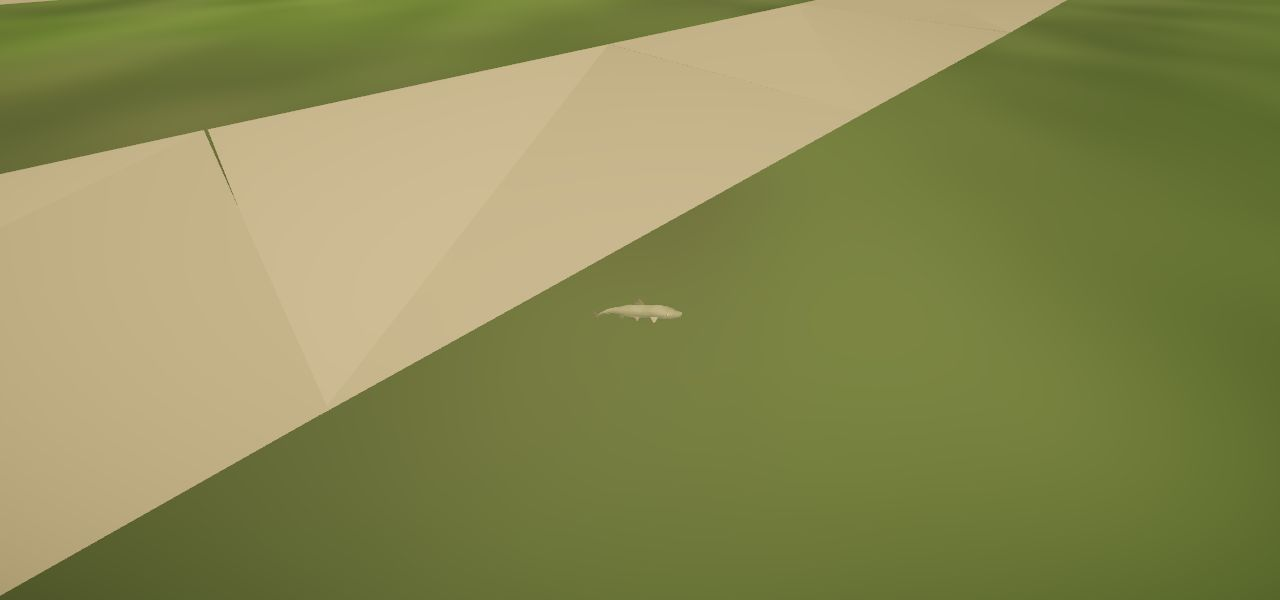
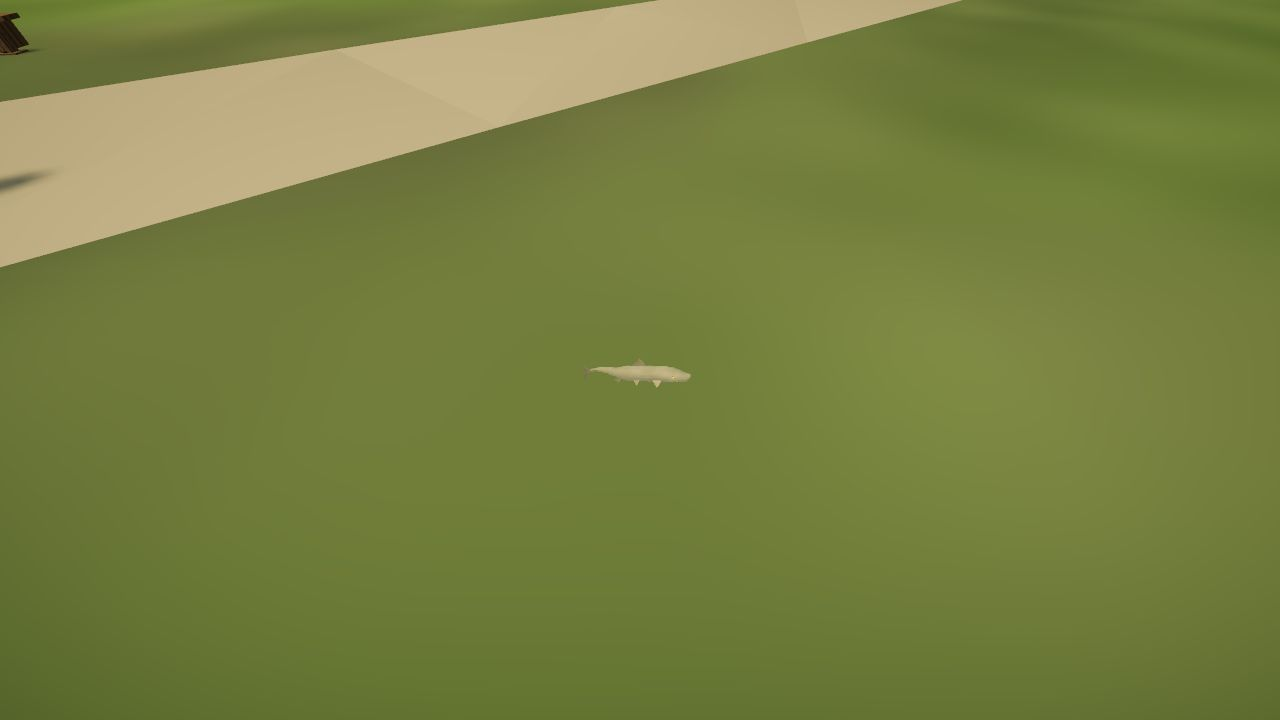
Bodies: Session 2626 — the gate eel and the sea serpent (#1925 B) as bodies in the game; f4animals +2; devlog
Claude-Session: https://claude.ai/code/session_019eFMMp35E2kWiX17Pguerk

diff --git a/js/34-creatures.js b/js/34-creatures.js
@@ -520,6 +520,12 @@ SWIMMER['Abyssal Angler']={len:1,col:0x1f1a1a,belly:0x332b29};
 SWIMMER.Stonefish={len:.38,col:0x6b5c4d,belly:0x8f7566};
 SWIMMER['Reef Moray']={len:1.4,col:0x666b29,belly:0x9e994d,gait:'slither',thin:.45};
 SWIMMER['Blackcurrent Eel']={len:2,col:0x14171f,belly:0x292e3d,gait:'slither',thin:.4};
+// Session 2626 (#1925 B, the sea that pushes back; L3, OG-016): the Uisce gates' two antibodies of the eel's line, bodies only (where they
+// rise and what they do are the systems builder's). The Gate Eel (the kit's gateeel, drawn to the sea gates, its bands lit amber as a gate's
+// light) is 3.8 m, the kit's scale; the serpent of the open water is the gate eel grown, as the designer's page has it, to a galleon's length
+// (22 m, the yard's galleon), on the same plan, its levels by its size (reach 5, the whale's). Both go by the kit's slither
+SWIMMER['Gate Eel']={len:3.8,col:0x292e33,belly:0x4d4d4d,gait:'slither',thin:.4,reach:2};
+SWIMMER['Sea Serpent']={len:22,col:0x292e33,belly:0x4d4d4d,gait:'slither',thin:.4,reach:5};
 // Session 2576: the two rays (L3, OG-016; the kit's starweedray and sailfinray) on the same path. The kit waves a ray's body about its x axis
 // (swimAxis), up and down as the whale's fluke, so the trout's fit along z holds; its stand-in is a flat disc (`wide`, of the trout's breadth;
 // `thin`, its depth). The Starweed Ray of the shallows is 1.0 m nose to tail-tip; the Sailfin Ray, the great ray of the deep channels, 3.4 m,
@@ -1115,7 +1121,7 @@ const HC_KINDS={'Wolf':{plan:'wolf'},'Snow Wolf':{plan:'wolf',own:true},'Dire Wo
   'Wraith':{plan:'wraith',own:true,person:true,legless:true,rest:HC_WRAITH_REST},'Phantom':{plan:'phantom',own:true,person:true,legless:true,rest:HC_WRAITH_REST},
   'Wraith (failing)':{plan:'failingwraith',own:true,person:true,legless:true,rest:HC_WRAITH_REST,arms:true,float:.05}, /* S1866 — its hem is 15% longer, so it rides 5 cm higher, clear of the floor */
   'Deer':{plan:'deer',ik:true},'Hind':{plan:'deer',own:true,ik:true,bare:true},'Red Fox':{plan:'redfox'},'Brown Hare':{plan:'brownhare'},'Badger':{plan:'badger'},'Otter':{plan:'otter'},'Cow':{plan:'cow',ik:true},'Sheep':{plan:'sheep',ik:true},'Goat':{plan:'goat',ik:true},'Ox':{plan:'ox',ik:true},'Yoked Ox':{plan:'yokedox',ik:true},'Donkey':{plan:'donkey',ik:true},'Pack Mule':{plan:'packmule',ik:true},'Camel':{plan:'camel',ik:true},'Reindeer':{plan:'reindeer',ik:true},'Highland Yak':{plan:'yak',ik:true},'Giant Goat':{plan:'giantgoat',ik:true},'Elderstag':{plan:'stag',ik:true},'Gatefen Boar':{plan:'gatefenboar'},'Redspine Fox':{plan:'redspinefox'},'Hollowcat':{plan:'hollowcat'},'Greenward Stoat':{plan:'stoat'},'Icehorn':{plan:'icehorn',ik:true},'Ironpine Elk':{plan:'ironpineelk',ik:true},'Craghorn Ram':{plan:'craghornram',ik:true},'Stormlynx':{plan:'stormlynx'},'Glacial Marmot':{plan:'glacialmarmot'},'Snowleap Hare':{plan:'snowhare'},'Duneskimmer':{plan:'duneskimmer',ik:true},'Terrace Ram':{plan:'terraceram',ik:true},'Sunspire Lynx':{plan:'sunspirelynx'},'Oasis Hare':{plan:'oasishare'},'Mirage Fox':{plan:'miragefox'},'Crownstag':{plan:'crownstag',ik:true},'Frostmane':{plan:'frostmane',ik:true},'Lanternfox':{plan:'lanternfox',night:true},'Thornrunner':{plan:'thornrunner'},'Stonejaw':{plan:'stonejaw'},
-  'Shark':{plan:'reefshark',fish:true},'Whale':{plan:'stormwhale',fish:true},'Dolphin':{plan:'stormswift',fish:true},'Gull':{plan:'gull',fish:true,own:true,cell:.014},'Raven':{plan:'raven',fish:true,own:true,cell:.014},'Crow':{plan:'crow',fish:true,own:true,cell:.012},'Trout':{plan:'trout',fish:true,own:true,cell:.014},'River Pike':{plan:'riverpike',fish:true,own:true,cell:.02},'Riverjaw Salmon':{plan:'riverjaw',fish:true,own:true,cell:.02},'Coastal Tuna':{plan:'coastaltuna',fish:true,own:true,cell:.02},'Skyskimmer':{plan:'skyskimmer',fish:true,own:true,cell:.016},'Abyssal Angler':{plan:'abyssalangler',fish:true,own:true,cell:.026},'Stonefish':{plan:'stonefish',fish:true,own:true,cell:.016},'Reef Moray':{plan:'reefmoray',fish:true,own:true,cell:.018},'Blackcurrent Eel':{plan:'blackcurrenteel',fish:true,own:true,cell:.024},'Starweed Ray':{plan:'starweedray',fish:true,own:true,cell:.016},'Sailfin Ray':{plan:'sailfinray',fish:true,own:true,cell:.02},'Lantern Jelly':{plan:'lanternjelly',fish:true,own:true,cell:.04},'Drifter Squid':{plan:'driftersquid',fish:true,own:true,cell:.035},'Giant Octopus':{plan:'octopus',fish:true,own:true,cell:.05},'Sea Turtle':{plan:'seaturtle',fish:true,own:true,cell:.04},'Tidecrab':{plan:'tidecrab',fish:true,own:true,cell:.02},'Grey Seal':{plan:'seal',fish:true,own:true,cell:.03},'Mire Snake':{plan:'miresnake',fish:true,own:true,cell:.016},'Lantern Beetle':{plan:'lanternbeetle',fish:true,own:true,cell:.03},'Stonecrawler':{plan:'stonecrawler',fish:true,own:true,cell:.01},'Marsh Frog':{plan:'marshfrog',fish:true,own:true,cell:.012},'Bellthroat':{plan:'bellthroat',fish:true,own:true,cell:.016},'Mossback':{plan:'mossback',fish:true,own:true,cell:.05},'Sailshell':{plan:'sailshell',fish:true,own:true,cell:.053},'Shatterhorn':{plan:'shatterhorn',fish:true,own:true,cell:.17},'Mineprowler':{plan:'mineprowler',fish:true,own:true,cell:.045},'Frostspine Lizard':{plan:'frostspinelizard',fish:true,own:true,cell:.01},'Icecrab':{plan:'icecrab',fish:true,own:true,cell:.02},'Saltspine Monitor':{plan:'saltspinemonitor',fish:true,own:true,cell:.008},'Spined Gekko':{plan:'spinedgekko',fish:true,own:true,cell:.01},'Amber Shellcrab':{plan:'ambershellcrab',fish:true,own:true,cell:.02},'Sand Wyrm':{plan:'sandwyrm',fish:true,own:true,cell:.01},'Hen':{plan:'hen',fish:true,own:true,cell:.012},'Great Heron':{plan:'heron',fish:true,own:true,cell:.016},'Crag Hawk':{plan:'craghawk',fish:true,own:true,cell:.014},'Capercaillie':{plan:'capercaillie',fish:true,own:true,cell:.016},'Skyraven':{plan:'skyraven',fish:true,own:true,cell:.014},'Stormshrike':{plan:'stormshrike',fish:true,own:true,cell:.014},'Tundra Grouse':{plan:'tundragrouse',fish:true,own:true,cell:.012},'Scarlet Ibis':{plan:'scarletibis',fish:true,own:true,cell:.016},'Cypress Stalker':{plan:'cypressstalker',fish:true,own:true,cell:.016},'Sunbeak Vulture':{plan:'sunbeakvulture',fish:true,own:true,cell:.016},'Dusk Eagle':{plan:'duskeagle',fish:true,own:true,cell:.03},'Cliffswift':{plan:'cliffswift',fish:true,own:true,cell:.01},'Glasswing Moth':{plan:'glasswingmoth',fish:true,own:true,cell:.014},'Glasswing':{plan:'glasswing',fish:true,own:true,cell:.016},'Stormplume':{plan:'stormplume',fish:true,own:true,cell:.028},'Redcrest':{plan:'redcrest',fish:true,own:true,cell:.016},'Sunfan':{plan:'sunfan',fish:true,own:true,cell:.016},'Slime':{plan:'slime',fish:true},'Slime (failing)':{plan:'failingslime',fish:true},'Slime (tine)':{plan:'magmaslime',fish:true},'Fire Elemental':{plan:'fireelemental',fish:true}};
+  'Shark':{plan:'reefshark',fish:true},'Whale':{plan:'stormwhale',fish:true},'Dolphin':{plan:'stormswift',fish:true},'Gull':{plan:'gull',fish:true,own:true,cell:.014},'Raven':{plan:'raven',fish:true,own:true,cell:.014},'Crow':{plan:'crow',fish:true,own:true,cell:.012},'Trout':{plan:'trout',fish:true,own:true,cell:.014},'River Pike':{plan:'riverpike',fish:true,own:true,cell:.02},'Riverjaw Salmon':{plan:'riverjaw',fish:true,own:true,cell:.02},'Coastal Tuna':{plan:'coastaltuna',fish:true,own:true,cell:.02},'Skyskimmer':{plan:'skyskimmer',fish:true,own:true,cell:.016},'Abyssal Angler':{plan:'abyssalangler',fish:true,own:true,cell:.026},'Stonefish':{plan:'stonefish',fish:true,own:true,cell:.016},'Reef Moray':{plan:'reefmoray',fish:true,own:true,cell:.018},'Blackcurrent Eel':{plan:'blackcurrenteel',fish:true,own:true,cell:.024},'Gate Eel':{plan:'gateeel',fish:true,own:true,cell:.024},'Sea Serpent':{plan:'gateeel',fish:true,own:true,cell:.016},'Starweed Ray':{plan:'starweedray',fish:true,own:true,cell:.016},'Sailfin Ray':{plan:'sailfinray',fish:true,own:true,cell:.02},'Lantern Jelly':{plan:'lanternjelly',fish:true,own:true,cell:.04},'Drifter Squid':{plan:'driftersquid',fish:true,own:true,cell:.035},'Giant Octopus':{plan:'octopus',fish:true,own:true,cell:.05},'Sea Turtle':{plan:'seaturtle',fish:true,own:true,cell:.04},'Tidecrab':{plan:'tidecrab',fish:true,own:true,cell:.02},'Grey Seal':{plan:'seal',fish:true,own:true,cell:.03},'Mire Snake':{plan:'miresnake',fish:true,own:true,cell:.016},'Lantern Beetle':{plan:'lanternbeetle',fish:true,own:true,cell:.03},'Stonecrawler':{plan:'stonecrawler',fish:true,own:true,cell:.01},'Marsh Frog':{plan:'marshfrog',fish:true,own:true,cell:.012},'Bellthroat':{plan:'bellthroat',fish:true,own:true,cell:.016},'Mossback':{plan:'mossback',fish:true,own:true,cell:.05},'Sailshell':{plan:'sailshell',fish:true,own:true,cell:.053},'Shatterhorn':{plan:'shatterhorn',fish:true,own:true,cell:.17},'Mineprowler':{plan:'mineprowler',fish:true,own:true,cell:.045},'Frostspine Lizard':{plan:'frostspinelizard',fish:true,own:true,cell:.01},'Icecrab':{plan:'icecrab',fish:true,own:true,cell:.02},'Saltspine Monitor':{plan:'saltspinemonitor',fish:true,own:true,cell:.008},'Spined Gekko':{plan:'spinedgekko',fish:true,own:true,cell:.01},'Amber Shellcrab':{plan:'ambershellcrab',fish:true,own:true,cell:.02},'Sand Wyrm':{plan:'sandwyrm',fish:true,own:true,cell:.01},'Hen':{plan:'hen',fish:true,own:true,cell:.012},'Great Heron':{plan:'heron',fish:true,own:true,cell:.016},'Crag Hawk':{plan:'craghawk',fish:true,own:true,cell:.014},'Capercaillie':{plan:'capercaillie',fish:true,own:true,cell:.016},'Skyraven':{plan:'skyraven',fish:true,own:true,cell:.014},'Stormshrike':{plan:'stormshrike',fish:true,own:true,cell:.014},'Tundra Grouse':{plan:'tundragrouse',fish:true,own:true,cell:.012},'Scarlet Ibis':{plan:'scarletibis',fish:true,own:true,cell:.016},'Cypress Stalker':{plan:'cypressstalker',fish:true,own:true,cell:.016},'Sunbeak Vulture':{plan:'sunbeakvulture',fish:true,own:true,cell:.016},'Dusk Eagle':{plan:'duskeagle',fish:true,own:true,cell:.03},'Cliffswift':{plan:'cliffswift',fish:true,own:true,cell:.01},'Glasswing Moth':{plan:'glasswingmoth',fish:true,own:true,cell:.014},'Glasswing':{plan:'glasswing',fish:true,own:true,cell:.016},'Stormplume':{plan:'stormplume',fish:true,own:true,cell:.028},'Redcrest':{plan:'redcrest',fish:true,own:true,cell:.016},'Sunfan':{plan:'sunfan',fish:true,own:true,cell:.016},'Slime':{plan:'slime',fish:true},'Slime (failing)':{plan:'failingslime',fish:true},'Slime (tine)':{plan:'magmaslime',fish:true},'Fire Elemental':{plan:'fireelemental',fish:true}};
 // Session 1867 (L4, OG-073): a failing gate's skeletons, the sword's and the spear's, on the kit's failing skeleton: two more pairs of arms
 // (posed by hcArms), spurs down the back, more ribs, the bones cracked and only the cracks lit white-gold. What each holds is the game's,
 // as the steady one's; its sockets keep the plan's own gold (no K.glow), the colour of the cracks

diff --git a/docs/backlog.md b/docs/backlog.md
@@ -867,7 +867,7 @@ Michael marked all 96 images of the intake on the review page: 63 KEEP and 33 NO
 - **The Mark's fifteen** (OG-031): Icehorn (horns that moan in the wind), Ironpine Elk, Stormlynx, Skyraven, Craghorn Ram, Glacial Marmot, Stormshrike, Snowleap Hare (coat by season), Riverjaw Salmon (leaps the falls), Tundra Grouse, Icecrab; Stonefang Wolf and Frostreach Bear as reskins of the Snow Wolf and Cave Bear. **All fifteen are plans in the kit, Session 847** (bodies builder; `creatures.js` `MARK`, `creatures-mark.jpg`); owed: the game, after F4: ~~the Icehorn, the Ironpine Elk, the Craghorn Ram, the Stormlynx, the Glacial Marmot and the Snowleap Hare~~ have bodies in it since Session 1739 (`buildAnimal`, wild, on the wolf's driver; `f4animals`; `docs/prototypes/f4/f4-mark.jpg`; the spawn is the systems builder's); ~~the Skyraven, the Stormshrike and the Tundra Grouse~~ since Session 1740 (the birds' path); ~~the Riverjaw Salmon~~ since Session 1741 (the trout's path); ~~the Frostspine Lizard and the Icecrab~~ since Session 1742 (the land path); so the twelve of the fifteen that are the Mark's own have bodies; the bear and the wolf are the Cave Bear's and the Dire Wolf's (Michael's reskins, ~~owed as coats~~ — done, Session 1969: on the Mark the Snow Wolf wears the kit's Stonefang grey and the Cave Bear the kit's own pale Frostreach, `HC_ISLE_COATS`; and every kit beast made in the open world wears its island's coat, read at its home, `hcIsleOf`; `f4beasts`; `docs/prototypes/f4/f4-beasts-mark.jpg`. The catalogue makes the Stonefang the Snow Wolf's variant, so it is the Snow Wolf that wears it; the names on the HUD are unchanged); the Shatterback is the sea's. **In the open country, Session 1769** (systems builder; `WILD_ISLE_KINDS`, `WILD_ISLE`: each island's own beside the common set by biome, weighted by the catalogue's rarity; the coats by island). Owed: the aggressive ones (the Gatefen Boar, the Icecrab, the Saltspine Monitor, the Sand Wyrm) and the River Pike and the Riverjaw Salmon, asked as DECISION #1050 (Session 1769). **The Icecrab answers back on the Mark's coast, Session 1796** (#1050 A). ~~The Riverjaw Salmon~~ — **done, Session 1797** (#1050 A: one fish in two in the Mark's rivers, not its lakes; 1.2 weight, 18 gold).
 - **Aurenne's fifteen** (OG-030): Duneskimmer, Terrace Ram, Oasis Hare, Scarlet Ibis, Mirage Fox, Cliffswift, Amber Shellcrab (harvestable), Cypress Stalker, Glasswing Moth (an ingredient), Sunbeak Vulture, Spined Gekko; the Saltspine Monitor hostile; the Dunescorpion as the Sand Scorpion's skin; the Sand Wyrm as a set piece known by its funnels. **Fourteen are plans in the kit, Session 848** (bodies builder; `creatures.js` `AURENNE`, `creatures-aurenne.jpg`); owed: the game, after F4: ~~the Duneskimmer, the Terrace Ram, the Sunspire Lynx, the Oasis Hare and the Mirage Fox~~ have bodies in it since Session 1744 (`buildAnimal`, wild, on the wolf's driver; `f4animals`; `docs/prototypes/f4/f4-aurenne.jpg`; the spawn is the systems builder's); ~~the Scarlet Ibis, the Cypress Stalker, the Cliffswift and the Sunbeak Vulture~~ have bodies since Session 1746 (the birds' path; `f4-birds.jpg`); ~~the Saltspine Monitor, the Spined Gekko and the Amber Shellcrab~~ have bodies since Session 1747 (the land path); ~~the Glasswing Moth~~ has a body since Session 1756 (the birds' path: it walks on six legs and soars on its own wingbeat; `f4animals`); ~~the Sand Wyrm~~ has a body since Session 1757 (the snake's path at 14 m, its levels by its size; its rising and funnels are the set piece's), so all fifteen have bodies; the Dune Scorpion is the Sand Scorpion's already; ~~the Glasswing Moth~~ — done, Session 864 (a moth's glass wings in the kit), so all fifteen are plans. **In the open country, Session 1769** (systems builder; `WILD_ISLE_KINDS`, `WILD_ISLE`: each island's own beside the common set by biome, weighted by the catalogue's rarity; the coats by island). Owed: the aggressive ones (the Gatefen Boar, the Icecrab, the Saltspine Monitor, the Sand Wyrm) and the River Pike and the Riverjaw Salmon, asked as DECISION #1050 (Session 1769). **The Saltspine Monitor answers back on Aurenne's coast, Session 1796** (#1050 A); the Sand Wyrm waits for its set piece.
 - **The strange beasts** (OG-040): the Crownstag, the Mossback (a tortoise carrying a garden), the Bellthroat (its call at dusk), the Lanternfox, the Thornrunner; the Shatterhorn, the Frostmane (a pack beast), the Glasswing, the Stonejaw, the Stormplume; the Redcrest, the Sunfan, the Mineprowler, the Sailshell. Wonder without menace, mostly peaceful. A few have six legs, and that is ordinary (Michael's 9 A). **All fourteen are plans in the kit, Session 853** (bodies builder; `creatures.js` `STRANGE`, `creatures-strange.jpg`): six from Sessions 773 to 775 and eight new (the Crownstag, the Lanternfox, the Thornrunner, the Frostmane, the Glasswing, the Stonejaw, the Redcrest, the Sunfan); owed: the game, after F4: ~~the Crownstag, the Lanternfox, the Thornrunner, the Frostmane and the Stonejaw~~ have bodies in it since Session 1852 (`buildAnimal`, wild, on the wolf's driver; `f4animals`; `docs/prototypes/f4/f4-strange.jpg`; ~~the spawn is the systems builder's~~ — done, Session 1870: in their islands' tables by the catalogue's habitat and rarity, the Crownstag and the Frostmane give a deer's meat; ~~the Lanternfox's glow by night only~~ — done, Session 1853, `hcNightK`); ~~the Glasswing, the Stormplume, the Redcrest and the Sunfan (the birds' path)~~ — done, Session 1892 (`BIRD`, `HC_KINDS` in `34-creatures.js`, at the kit's own size, 1.07 to 2.69 m beak to tail; `f4animals`; their spawn is the systems builder's; ~~in the tables~~ — **done, Session 1895**: the Glasswing and the Stormplume on the Mark's tundra and moor, the Redcrest in packs of 2 to 4 in Aurenne's scrub, the Sunfan on its plains and dunes, all rare 0.5; the Stormplume and the Redcrest answer back, #1050 A; `wildlife`); ~~the six-legged Shatterhorn and Mineprowler (need a driver of their own)~~ — done, Session 1907 (on the crawlers' path, the kit posing all six legs: 6.3 m at the walk, 2.4 m at the trot; `f4animals`; ~~in the tables~~ — **done, Session 1911**: the Shatterhorn 0.5 on the Mark's tundra, the Mineprowler 1 in Aurenne's dunes and wastes and answering back, #1050 A; `wildlife`), ~~the Mossback and the Sailshell (the shell's walk)~~ — done, Session 1906 (on the crawlers' path at the kit's own size, 2.2 and 1.9 m, the kit's walk; `f4animals`; ~~in the tables~~ — **done, Session 1911**: the Mossback 1 in the Gatelands' woods, the Sailshell 2 in Aurenne's dunes, wastes and scrub; `wildlife`); ~~the Bellthroat (the frog's path)~~ — done, Session 1893 (`SWIMMER`, 0.37 m at the kit's own size, hopping; `f4animals`); ~~in the tables~~ — **done, Session 1895** (the Gatelands' fen at 2, alone; ~~its call at dusk is still the sound's~~ — **done, Session 1913**: `sndBellthroat`, three booms and an echo at the clock's dusk within 150 m, about every 12 s; `wildlife`; ~~the sac swelling as it calls~~ — **done, Session 1914**: `hcBellSac`, `BELL_SAC`, filled over the three booms to about twice its size, empty 0.3 s after; `f4animals`). ~~The Stormplume and the Redcrest fight posed by their motion alone~~ (the systems builder, Session 1896) — **done, Session 1915**: the kit's kick (`KICK`, `C.kick` in `creatures.js`), chambered by the wind-up and struck through the lunge, feet alternating (`hcBirdKick`, `KICKERS`; `f4animals`). ~~The Mossback's garden thin in play~~ (Session 1906's note) — **done, Session 1920**: the kit's garden thickened on cheaper plants (two-triangle blades; moss mounds, grass, shrubs and flower clusters, `shell`'s `garden` options), the Mossback's about 1,850 tris; `f4-mossback-garden.jpg`.
-- **The sea** (OG-016, OG-084, OG-031): tidecrab, moray, rays, lantern jelly, flying fish, squid, seals, dolphins, octopus, turtles; the Shatterback and the maw turtle as landmarks mistaken for rock; the gate eel and the Gate Leviathan as a sea gate's antibodies (the Mouth, the Vault of the Tide), seams glowing. **Seventeen are plans in the kit, Session 854** (bodies builder; `creatures.js` `SEA`, `creatures-sea.jpg`): the reef moray, the starweed and sailfin rays, the lantern jelly, the coastal tuna, the skyskimmer, the Stormswift (a dolphin), the drifter squid, the reef shark (~~a shark of its own, not the salmon recoloured~~ — done, Session 1528: the game's shark, Michael's A on S230, as the brief; `creatures-reefshark*.jpg`; ~~the gill bands' chequer~~ — done, Session 1530 (slits as ribbons on the grown skin, `gillSlits`); ~~owed: the game's Shark wearing it~~ — done, Session 1529: on the new look, posed by the kit's swim gait at the old tail's beat, `hcFishRig`; `f4sharks`), the grey seal, the blackcurrent eel, the gate eel and the Gate Leviathan, beside the Tidecrab, the Storm Whale (~~the game's whales wearing it~~ — done, Session 1536: on the new look, `hcWhaleRig`, the fluke's beat at a quarter stroke a second; `f4sharks`; ~~the bow-wave dolphins as the Stormswift~~ — done, Session 1537, `hcDolphinRig`), the octopus and the Shatterback; owed: the game, after F4; ~~the kelpstrider~~ — done, Session 863 (leafy fronds in the kit); ~~the pierwinkle~~ — done, Session 862 (a coiled shell in the kit); ~~the stonefish, the abyssal angler and the crimson leviathan~~ — done, Session 856; ~~turtles (a sea turtle and the maw turtle need flippers)~~ — done, Session 861 (flippers in the kit: flattened arms that stroke). ~~The ports' gulls on the kit~~ — done, Session 1595 (a `gull` plan, the raven's flier in a herring gull's colours, `SHORE`; on the new look `spawnGulls`' four wear it, `hcGullRig`, 4,252 triangles each at the game's cell; `f4sharks`, `docs/prototypes/f4/f4-gull.jpg`, `creatures-gull*.jpg`). ~~The shallows' fish schools on the kit~~ — done, Session 1599 (a `herring` plan in `SHORE`, the salmon's body slimmer and silver under a blue-green back, `saddleUp` in the kit; on the new look every school within 35 m of the eye draws it baked once and instanced, its tail swung in the shader, `hcSchools`; the old cones past it; `f4sharks`, `docs/prototypes/f4/f4-herring.jpg`, `creatures-herring.jpg`). ~~The sea's six fish in the game: the coastal tuna, the skyskimmer, the abyssal angler, the stonefish, the reef moray and the blackcurrent eel~~ — done, Session 2575 (`buildAnimal`, wild, on the trout's path, `SWIMMER`; the two eels by the kit's slither on a slim stand-in; `f4animals` +6; `docs/prototypes/f4/f4-seafish.jpg`; no spawn rolls them: where they swim is the systems builder's). ~~The two rays~~ — done, Session 2576 (on the same path, a flat stand-in, `wide`; `f4animals` +2; `docs/prototypes/f4/f4-rays.jpg`). ~~The lantern jelly, the drifter squid and the giant octopus~~ — done, Session 2579 (the jelly and the squid hang upright as `drift`ers, fitted by height, beating on the clock; the octopus lies and goes by the kit's crawl; `f4animals` +3; `docs/prototypes/f4/f4-soft.jpg`). ~~The sea turtle and the tidecrab~~ — done, Session 2580 (the turtle on the fish's path, nose to nose, its flippers stroking by the kit's swim; the tidecrab on the crabs' path at the walk; `f4animals` +2; `docs/prototypes/f4/f4-turtle.jpg`; the maw turtle is a landmark, not on this path). ~~The grey seal~~ — done, Session 2585 (`amph`: on the fish's path in the water, its belly on the ground ashore by `hcAshore`, a new `hump` gait in the kit for the galumph; `f4animals` +1; `docs/prototypes/f4/f4-seal.jpg`); ~~its galumph a seesaw (the whole body up, then the chest into the ground)~~ — done, Session 2600: the chest up while the hips stay down, then the hips drawn up under an arched back, `humpPose`, `HUMP`; Session 2606: the surge, most of a hump's stride on the chest's push and little on the hips' draw, `humpSurge`; Session 2618: the fore-flippers plant through the push and swing on in the draw (they had beaten with the swim's stroke, 18.5 cm up and 0.38 m along the way), `humpFlipper`, `FLIP`, `seal-2618-flippers.jpg`; `f4animals` +1; `seal-2600-*.jpg`). Still owed in the game: the gate eel and the Gate Leviathan (#1925). **Their spawns asked, Session 2587** (systems builder; DECISION #1954: A by habitat on #984 A, #1014 A and #1050 A, the moray, stonefish and octopus answering back, recommended; B all peaceful; C wait for #1925's reefs). ~~Michael's A: the shallows, open water and the deepest water~~ — done, Session 2622 (`wildSeaChunk`, `SEA_TABLE`, `SEA_KINDS`, `seaHoldY`, `SEA_FISH`; `wildlife` +2). ~~The reef rock's moray, stonefish (trodden on) and octopus answering back~~ — done, Session 2623 (`seaRock`, `seaAnswerStep`, `SEA_ANSWER`; the fight in the water through `executeStrike`; `wildlife` +1). ~~The seals hauled out on the coast in 2s to 5s~~ — done, Session 2624 (`wildSealChunk`, `sealShoreStep`, `SEAL`; `wildlife` +1). #1954 A built.
+- **The sea** (OG-016, OG-084, OG-031): tidecrab, moray, rays, lantern jelly, flying fish, squid, seals, dolphins, octopus, turtles; the Shatterback and the maw turtle as landmarks mistaken for rock; the gate eel and the Gate Leviathan as a sea gate's antibodies (the Mouth, the Vault of the Tide), seams glowing. **Seventeen are plans in the kit, Session 854** (bodies builder; `creatures.js` `SEA`, `creatures-sea.jpg`): the reef moray, the starweed and sailfin rays, the lantern jelly, the coastal tuna, the skyskimmer, the Stormswift (a dolphin), the drifter squid, the reef shark (~~a shark of its own, not the salmon recoloured~~ — done, Session 1528: the game's shark, Michael's A on S230, as the brief; `creatures-reefshark*.jpg`; ~~the gill bands' chequer~~ — done, Session 1530 (slits as ribbons on the grown skin, `gillSlits`); ~~owed: the game's Shark wearing it~~ — done, Session 1529: on the new look, posed by the kit's swim gait at the old tail's beat, `hcFishRig`; `f4sharks`), the grey seal, the blackcurrent eel, the gate eel and the Gate Leviathan, beside the Tidecrab, the Storm Whale (~~the game's whales wearing it~~ — done, Session 1536: on the new look, `hcWhaleRig`, the fluke's beat at a quarter stroke a second; `f4sharks`; ~~the bow-wave dolphins as the Stormswift~~ — done, Session 1537, `hcDolphinRig`), the octopus and the Shatterback; owed: the game, after F4; ~~the kelpstrider~~ — done, Session 863 (leafy fronds in the kit); ~~the pierwinkle~~ — done, Session 862 (a coiled shell in the kit); ~~the stonefish, the abyssal angler and the crimson leviathan~~ — done, Session 856; ~~turtles (a sea turtle and the maw turtle need flippers)~~ — done, Session 861 (flippers in the kit: flattened arms that stroke). ~~The ports' gulls on the kit~~ — done, Session 1595 (a `gull` plan, the raven's flier in a herring gull's colours, `SHORE`; on the new look `spawnGulls`' four wear it, `hcGullRig`, 4,252 triangles each at the game's cell; `f4sharks`, `docs/prototypes/f4/f4-gull.jpg`, `creatures-gull*.jpg`). ~~The shallows' fish schools on the kit~~ — done, Session 1599 (a `herring` plan in `SHORE`, the salmon's body slimmer and silver under a blue-green back, `saddleUp` in the kit; on the new look every school within 35 m of the eye draws it baked once and instanced, its tail swung in the shader, `hcSchools`; the old cones past it; `f4sharks`, `docs/prototypes/f4/f4-herring.jpg`, `creatures-herring.jpg`). ~~The sea's six fish in the game: the coastal tuna, the skyskimmer, the abyssal angler, the stonefish, the reef moray and the blackcurrent eel~~ — done, Session 2575 (`buildAnimal`, wild, on the trout's path, `SWIMMER`; the two eels by the kit's slither on a slim stand-in; `f4animals` +6; `docs/prototypes/f4/f4-seafish.jpg`; no spawn rolls them: where they swim is the systems builder's). ~~The two rays~~ — done, Session 2576 (on the same path, a flat stand-in, `wide`; `f4animals` +2; `docs/prototypes/f4/f4-rays.jpg`). ~~The lantern jelly, the drifter squid and the giant octopus~~ — done, Session 2579 (the jelly and the squid hang upright as `drift`ers, fitted by height, beating on the clock; the octopus lies and goes by the kit's crawl; `f4animals` +3; `docs/prototypes/f4/f4-soft.jpg`). ~~The sea turtle and the tidecrab~~ — done, Session 2580 (the turtle on the fish's path, nose to nose, its flippers stroking by the kit's swim; the tidecrab on the crabs' path at the walk; `f4animals` +2; `docs/prototypes/f4/f4-turtle.jpg`; the maw turtle is a landmark, not on this path). ~~The grey seal~~ — done, Session 2585 (`amph`: on the fish's path in the water, its belly on the ground ashore by `hcAshore`, a new `hump` gait in the kit for the galumph; `f4animals` +1; `docs/prototypes/f4/f4-seal.jpg`); ~~its galumph a seesaw (the whole body up, then the chest into the ground)~~ — done, Session 2600: the chest up while the hips stay down, then the hips drawn up under an arched back, `humpPose`, `HUMP`; Session 2606: the surge, most of a hump's stride on the chest's push and little on the hips' draw, `humpSurge`; Session 2618: the fore-flippers plant through the push and swing on in the draw (they had beaten with the swim's stroke, 18.5 cm up and 0.38 m along the way), `humpFlipper`, `FLIP`, `seal-2618-flippers.jpg`; `f4animals` +1; `seal-2600-*.jpg`). ~~Still owed in the game: the gate eel and the Gate Leviathan (#1925).~~ The gate eel and the sea serpent (#1925 B: the gate eel grown to a galleon's 22 m) are bodies in the game, Session 2626 (`SWIMMER['Gate Eel']`, `SWIMMER['Sea Serpent']`, on `gateeel`, by the slither; 3,452 and 7,256 triangles, 19 bones; `f4animals` +2); where they rise is the systems builder's. Still owed: the Gate Leviathan, which #1925 B does not place. **Their spawns asked, Session 2587** (systems builder; DECISION #1954: A by habitat on #984 A, #1014 A and #1050 A, the moray, stonefish and octopus answering back, recommended; B all peaceful; C wait for #1925's reefs). ~~Michael's A: the shallows, open water and the deepest water~~ — done, Session 2622 (`wildSeaChunk`, `SEA_TABLE`, `SEA_KINDS`, `seaHoldY`, `SEA_FISH`; `wildlife` +2). ~~The reef rock's moray, stonefish (trodden on) and octopus answering back~~ — done, Session 2623 (`seaRock`, `seaAnswerStep`, `SEA_ANSWER`; the fight in the water through `executeStrike`; `wildlife` +1). ~~The seals hauled out on the coast in 2s to 5s~~ — done, Session 2624 (`wildSealChunk`, `sealShoreStep`, `SEAL`; `wildlife` +1). #1954 A built.
 - **Livestock** (OG-023, OG-035): chickens, goats, sheep, cows and bees on farms and in fields. **Prototyped as plans in the kit, Session 844** (bodies builder; `creatures.js` `LIVESTOCK`, `creatures-livestock.jpg`): the cow, the sheep, the goat and the hen build and walk; owed: the bees (not skeletal), and the game (after F4): ~~the cow, the sheep and the goat~~ in it since Session 1719 (`buildAnimal`, keyed `farm:<key>`, on the deer's legs; `f4animals`), ~~the hen~~ since Session 1720 (the birds' path, no driver; she runs at a trot and never soars), and ~~their place on the farms (a spawn: the systems builder's, or the look builder's farm dressing)~~ — **done, Session 1973** (`wildFarmChunk`, `88-world-ticks.js`: every Gatelands farm, village or lone, keeps two to four hens in its yard by day and a herd in the field behind or beside it, two or three cows, three to five sheep or two or three goats, keyed `farm:<id>:h<i>`/`f<i>`; tame, `FARM_TAME` 3 m; no meat, no crime yet, asked; `kitfarm` +2; a paddock wall is the look builder's if wanted); ~~breeds by island~~ — done, Session 866 (`COATS`); in the game since Session 1721 (`buildAnimal(name, key, island)`, for the common set too); ~~a cow's patches~~ — done, Session 845 (a patches pattern in the kit).
 - **Beasts of burden and wagons** (OG-046, OG-077): horse, mule, donkey, ox, camel, reindeer, yak; covered and merchant wagons, the stagecoach, supply carts on the roads. OG-077's post-rider on a horse-sized hare is the brief's licence made ordinary: one on the Gatelands' roads. **The animals are plans in the kit, Session 855** (bodies builder; `creatures.js` `BURDEN`, `creatures-burden.jpg`): the horse, the mule, the donkey, the ox, the camel, the reindeer, the highland yak and a saddled giant goat, beside the post hare (Session 773); OG-046's llama is the Frostmane and its cow the livestock's. Owed: the wagons and carts (props: the look builder's), and the game, after F4; ~~harness and packs~~ — done, Session 867 (`packs` and `harness` in the kit: the pack mule, the draught horse, the yoked ox). **The horse heavier, Session 1261** (bodies builder; S1251 found the kit's horse a thin-legged foal at the coach's size): a deeper barrel, a deep flat neck with a mane (the kit's new `mane`, a crest in its own tone), a broader head, legs a third thicker, a full tail; the draught horse's collar fitted to the grown skin. ~~the coach's team on it (a key per horse from `buildCoachLine`)~~ — done, Session 1273 (the bay and the grey on the kit's horse behind the new look, keyed `coach:<road>:<i>`, each leg bent onto the driver's hoof height, `hcLegIK`; `f4beasts`). **The wagons and carts prototyped by the concept artist, 2 Nov** (`docs/prototypes/levelup/wagons.js`, `wagons.html`; docs/concepts.md): three an island on one running gear (spoked and disc wheels, shafts, a pole, a yoke, runners), each with its team from the kit, with how far the islands differ asked as a DECISION. Michael's B on #1046 (3 Nov): each island its own three, with its own animals. ~~the coach's team by island~~ — done, Session 1825 (bodies builder: the Mark's fjord dun on the kit's horse, `COATS.mark.horse`, taken by every plan with `coatAs: 'horse'`; in the game `buildCoachBeast` gives the Mark's coach two dun horses and Aurenne's two mules, the Gatelands' the bay and the grey as before). Owed: ~~the vehicles themselves in the game (the Mark's carved wagon and Aurenne's carpentum in place of the one coach)~~ — done, Session 2181 (`PKIT.props.coach({island, key})`, wagons.js's Crown's coach, carved wagon and covered carriage without their beasts; `buildCoachLine` on the new look sets the island's vehicle with its pole's end at the team's rumps, and the rider and the platform at its standing place: the coach's roof, the wagon's trough, the carriage's footboard; `coach` +3); still owed: the other two of each island's three (the carts and wagons) on the roads, which no rule yet sends, and the ox cart; and ~~oxen on a driver of their own for the ox cart~~ — done, Session 2148 (`buildAnimal('Ox' | 'Yoked Ox', key)`: the kit's ox and yokedox on WOLF_KINDS' Ox, keyed `burden:<key>`, which no spawn rolls; `f4beasts`), so the ox cart is the look builder's to hitch. ~~The donkey and the pack mule~~ — done, Session 2154 (`buildAnimal('Donkey' | 'Pack Mule', key)`: the kit's donkey and packmule on the horse's legs, keyed `burden:<key>`; `f4beasts`), so a pack train is the caller's to place. ~~The camel~~ — done, Session 2155 (`buildAnimal('Camel', key)`, the kit's camel on the horse's legs, `burden:<key>`; `f4beasts`); ~~the reindeer and the highland yak~~ — done, Session 2156 (`buildAnimal('Reindeer' | 'Highland Yak', key)`, on the Elderstag's and the ox's legs; `f4beasts`); the reindeer's antlers in velvet, a mid brown and a third thicker so they read on snow, Session 2167; ~~the saddled giant goat~~ — done, Session 2164 (`buildAnimal('Giant Goat', key)`, the kit's giantgoat on the goat's legs at 2.1, `burden:<key>`; `f4beasts`), so every beast of burden has a body; nothing rides it yet. ~~The ox's island coats~~ — done, Session 2173 (`COATS.mark.ox`, the hill cow's black, and `COATS.aurenne.ox`, a pale grey draught ox; the yoked ox takes them by `coatAs: 'ox'`; in the game `buildAnimal('Ox' | 'Yoked Ox', key, island)`; `f4beasts`, `docs/prototypes/f4/f4-oxen-isles.jpg`). **The farm's cart, Session 2194** (OG-046; #1046 B): every Gatelands farmstead's yard cart (a village's farm and a lone farm's) is wagons.js's carter's cart, not hitched: two 12-spoke wheels of 1.4 m, a staked bed of 2.0 by 1.2 m, its shafts, tipped forward about the axle onto the shafts' tips; in the yard's wood and iron and the byre's paint, so the farm stays 20 draws (about 9.2k triangles, +676); `pieces.js` and `js/38-kit.js`, `pieces-gatelands-farmstead-cart.jpg`; `kitfarm`. Still owed: the carts and wagons on the roads (a rule sends them), and the Mark's ox cart and Aurenne's painted cart, which have no farm of their island to stand in yet.
 

diff --git a/docs/devlog/2626.md b/docs/devlog/2626.md
@@ -1,0 +1,25 @@
+## v80 — Session 2626 — the gate eel and the sea serpent, bodies in the game (#1925 B)
+The same run, second item. Michael's B on #1925 (*the sea that pushes back*: tidal races and reefs, plus the serpent) gives the bodies
+builder one session of its seven: the serpent's body. The designer's page (`docs/design/the-sea-that-pushes-back.md`) says what it is:
+*the gate eel grown*, an Uisce gate's antibody loose in open water, *as long as a galleon*; until a body exists, its rules would ride the
+Shark's rig scaled up. The gate eel itself was the last of the kit's sea antibodies owed to the game (backlog L3, since Session 2575).
+
+**What changed** (`js/34-creatures.js`): two kinds on the eels' path (Session 2575's Reef Moray and Blackcurrent Eel), each a slim
+stand-in that the kit's body is fitted to nose to nose, swimming by the kit's slither:
+- **Gate Eel**: the kit's `gateeel` (the moray's line at scale 3, dark slate with its bands lit amber as a gate's light), 3.8 m, its levels
+  by its size at reach 2, grown at a 0.024 cell: 3,452 triangles, 19 bones.
+- **Sea Serpent**: the same plan grown to the yard's galleon's 22 m (`85-world-sea.js`, `galleon: L 22`), its levels at reach 5 (the
+  whale's), grown at a 0.016 cell so its length is not faceted: 7,256 triangles, 19 bones. At 0.045 it was 1,152 and read as a lump.
+Bodies only: nothing rolls either. `SEA_KINDS`, the pace, the tell, the strike, the dive and the scale are the systems builder's sessions
+(the page's six), which now have a body to call by name (`buildAnimal('Sea Serpent', key)`).
+
+### Verified (headless Chromium)
+- `f4animals` 1/1, +2 checks (the sea list): the Gate Eel wears `game:Gate Eel`, 3.493 m nose to tail (3.8 wanted; the kit's eels all
+  fit 8% short of the stand-in, the Blackcurrent Eel 1.838 of 2), its nose 0 m off the stand-in's, holds and slithers (the bones moving
+  1.594), the same key the same body, dropped when taken away; the Sea Serpent the same at 20.221 m of 22.
+
+### Needs eyes
+- The serpent is the gate eel at seven times its length with the same girth ratio: 22 m of eel is about 1.5 m through. Whether it should be
+  thicker, or carry the Gate Leviathan's crystals, is a look for the pictures once the systems builder has it rising beside a ship.
+- The eels' fit 8% short of the stand-in (the kit's tail-tip taper) is old and shared; a 22 m serpent is 1.8 m short of a galleon.
+- A shot taken on land (the probe's spot) had it half in the turf, so no picture this session; the sea is where it should be seen.
